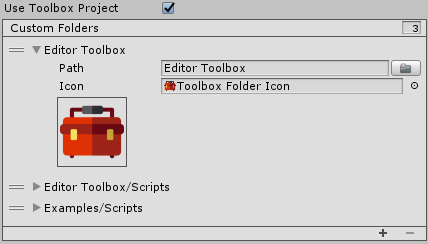
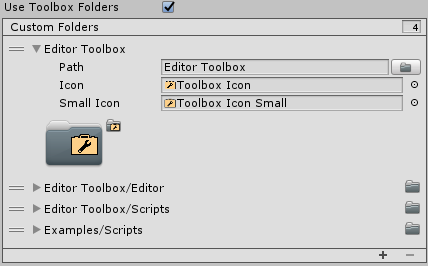
Added FolderData inspector drawer

diff --git a/Assets/Editor Toolbox/Editor/Drawers/FolderDataDrawer.cs b/Assets/Editor Toolbox/Editor/Drawers/FolderDataDrawer.cs
@@ -1,0 +1,90 @@
+using UnityEditor;
+using UnityEngine;
+
+namespace Toolbox.Editor.Drawers
+{
+    [CustomPropertyDrawer(typeof(FolderData))]
+    public class FolderDataDrawer : PropertyDrawer
+    {
+        public override float GetPropertyHeight(SerializedProperty property, GUIContent label)
+        {
+            return EditorGUI.GetPropertyHeight(property, label) + (property.isExpanded ? Style.iconHeight : 0.0f);
+        }
+
+        public override void OnGUI(Rect position, SerializedProperty property, GUIContent label)
+        {
+            //draw property field in native way 
+            EditorGUI.PropertyField(position, property, label, property.isExpanded);
+
+            if (!property.isExpanded)
+            {
+                //adjust position for small icon and draw it in label field
+                var smallIconRect = new Rect(position.xMax - Style.smallIconWidth, position.yMin - Style.spacing, Style.smallIconWidth, Style.smallIconHeight);
+
+                GUI.DrawTexture(smallIconRect, Style.folderTexture);
+                return;
+            }
+
+            //get icons properties
+            var bigIconProperty = property.FindPropertyRelative("icon");
+            var smallIconProperty = property.FindPropertyRelative("smallIcon");
+
+            //get specific rects for folder icons
+            var bigFolderIconRect = new Rect(position.x, position.yMax - Style.iconHeight, Style.iconWidth, Style.iconHeight);
+            var smallFolderIconRect = new Rect(position.x + Style.iconWidth,
+                bigFolderIconRect.y + Style.smallIconHeight / 2 - Style.spacing, Style.smallIconWidth, Style.smallIconHeight);
+
+            //draw folder icons using desired content
+            GUI.DrawTexture(bigFolderIconRect, Style.folderTexture);
+            GUI.DrawTexture(smallFolderIconRect, Style.folderTexture);
+
+            //handle big icon texture preview if exist
+            if (bigIconProperty.objectReferenceValue)
+            {
+                var previewTexture = bigIconProperty.objectReferenceValue as Texture;
+
+                //adjust big icon rect using predefined style properties
+                bigFolderIconRect.x += bigFolderIconRect.width * ToolboxEditorProject.Style.xToWidthRatio;
+                bigFolderIconRect.y += bigFolderIconRect.height * ToolboxEditorProject.Style.yToHeightRatio;
+                bigFolderIconRect.width = ToolboxEditorProject.Style.iconWidth;
+                bigFolderIconRect.height = ToolboxEditorProject.Style.iconHeight;
+
+                //draw big preview icon
+                GUI.DrawTexture(bigFolderIconRect, previewTexture);
+            }
+
+            //handle small icon texture preview if exist
+            if (smallIconProperty.objectReferenceValue)
+            {
+                var previewTexture = smallIconProperty.objectReferenceValue as Texture;
+
+                //adjust small icon rect using predefined style properties
+                smallFolderIconRect.x += smallFolderIconRect.width * ToolboxEditorProject.Style.xToWidthRatioSmall;
+                smallFolderIconRect.y += smallFolderIconRect.height * ToolboxEditorProject.Style.yToHeightRatioSmall;
+                smallFolderIconRect.width = ToolboxEditorProject.Style.iconWidthSmall;
+                smallFolderIconRect.height = ToolboxEditorProject.Style.iconHeightSmall;
+
+                //draw small preview icon
+                GUI.DrawTexture(smallFolderIconRect, previewTexture);
+            }
+        }
+
+
+        private static class Style
+        {
+            internal const float spacing = 2.0f;
+
+            internal const float iconWidth = ToolboxEditorProject.Style.folderIconWidth;
+            internal const float iconHeight = ToolboxEditorProject.Style.folderIconHeight;
+            internal const float smallIconWidth = ToolboxEditorProject.Style.folderIconWidthSmall;
+            internal const float smallIconHeight = ToolboxEditorProject.Style.folderIconHeightSmall;
+
+            internal static readonly Texture2D folderTexture;
+
+            static Style()
+            {
+                folderTexture = EditorGUIUtility.FindTexture("Folder Icon");
+            }
+        }
+    }
+}

diff --git a/Assets/Editor Toolbox/Editor/ToolboxEditorProject.cs b/Assets/Editor Toolbox/Editor/ToolboxEditorProject.cs
@@ -33,6 +33,9 @@ namespace Toolbox.Editor
             {
                 if (data.SmallIcon == null) return;
 
+                //determinate exact folder icon rect
+                rect = new Rect(rect.xMin, rect.y, Style.folderIconWidthSmall, Style.folderIconHeightSmall);
+
                 rect.x += rect.width * Style.xToWidthRatioSmall;
                 rect.y += rect.height * Style.yToHeightRatioSmall;
                 rect.width = Style.iconWidthSmall;
@@ -44,6 +47,9 @@ namespace Toolbox.Editor
             {
                 if (data.Icon == null) return;
 
+                //determinate exact folder icon rect
+                rect = new Rect(rect.x, rect.yMin, Style.folderIconWidth, Style.folderIconHeight);
+       
                 rect.x += rect.width * Style.xToWidthRatio;
                 rect.y += rect.height * Style.yToHeightRatio;
                 rect.width = Style.iconWidth;
@@ -58,19 +64,27 @@ namespace Toolbox.Editor
         {
             //x ratio will determinate OX position of icon
             internal const float xToWidthRatio = 0.43f;
-            internal const float xToWidthRatioSmall = 0.025f;
+            internal const float xToWidthRatioSmall = 0.25f;
 
             //y ratio will determinate OY position of icon
-            internal const float yToHeightRatio = 0.25f;
-            internal const float yToHeightRatioSmall = 0.4f;
+            internal const float yToHeightRatio = 0.3f;
+            internal const float yToHeightRatioSmall = 0.3f;
 
-            //icon width used to draw texture in proper rect
+            //big icon dimensions
             internal const float iconWidth = 29.0f;
-            internal const float iconWidthSmall = 10.0f;
-
-            //icon height used to draw texture in proper rect
             internal const float iconHeight = 29.0f;
+
+            //small icon dimensions
+            internal const float iconWidthSmall = 10.0f;
             internal const float iconHeightSmall = 10.0f;
+
+            //big folder icon dimensions
+            internal const float folderIconWidth = 64.0f;
+            internal const float folderIconHeight = 64.0f;
+
+            //small folder icon dimensions
+            internal const float folderIconWidthSmall = 16.0f;
+            internal const float folderIconHeightSmall = 16.0f;
         }
     }
 
@@ -80,9 +94,9 @@ namespace Toolbox.Editor
     {
         [SerializeField, Directory, Tooltip("Relative path from Assets directory.")]
         private string path;
-        [SerializeField, AssetPreview(ToolboxEditorProject.Style.iconWidth, ToolboxEditorProject.Style.iconHeight)]
+        [SerializeField]
         private Texture icon;
-        [SerializeField, AssetPreview(ToolboxEditorProject.Style.iconWidthSmall, ToolboxEditorProject.Style.iconHeightSmall)]
+        [SerializeField]
         private Texture smallIcon;
 
 

diff --git a/Assets/Editor Toolbox/Editor/Drawers/AssetPreviewAttributeDrawer.cs b/Assets/Editor Toolbox/Editor/Drawers/AssetPreviewAttributeDrawer.cs
@@ -47,9 +47,9 @@ namespace Toolbox.Editor
             }
             else
             {
-                //setting additional height as opposite label
+                //set additional height as opposite label
                 additionalHeight -= Style.height;
-                //adjusting OY position since we need no label
+                //adjust OY position since we need no label
                 position.y -= Style.height;
             }
 
@@ -59,26 +59,26 @@ namespace Toolbox.Editor
 
                 if (!previewTexture) return;
 
-                //caching indent difference
+                //cache indent difference
                 var indent = position.width - EditorGUI.IndentedRect(position).width;
-                //setting image style
+                //set image style
                 var width = Mathf.Clamp(Attribute.Width, 0, previewTexture.width);
                 var height = Mathf.Clamp(Attribute.Height, 0, previewTexture.height);
 
                 Style.textureStyle.normal.background = previewTexture;
-                //setting additional height as preview + 2x spacing + 2x frame offset
+                //set additional height as preview + 2x spacing + 2x frame offset
                 additionalHeight += height + Style.frameSize * 2 + Style.spacing * 2;
                 position.height = height + Style.frameSize;
                 position.width = width + Style.frameSize + indent;
                 position.y += Style.height + Style.spacing;
-                //drawing frame
+                //draw frame
                 EditorGUI.LabelField(position, GUIContent.none, Style.backgroundStyle);
                 position.height = height;
                 position.width = width + indent;
-                //adjusting image to frame center
+                //adjust image to frame center
                 position.y += Style.frameSize / 2;
                 position.x += Style.frameSize / 2;
-                //drawing preview texture
+                //draw preview texture
                 EditorGUI.LabelField(position, GUIContent.none, Style.textureStyle);
             }
         }

diff --git a/Assets/Editor Toolbox/Scripts/BezierSpline.cs b/Assets/Editor Toolbox/Scripts/BezierSpline.cs
@@ -1,0 +1,9 @@
+using UnityEngine;
+
+namespace Toolbox
+{
+    public class BezierSpline : MonoBehaviour
+    {
+
+    }
+}

diff --git a/Assets/Editor Toolbox/README.md b/Assets/Editor Toolbox/README.md
@@ -314,7 +314,9 @@ Set custom folder icons in **ToolboxEditorSettings**.
 
 > Editor Toolbox/Editor/ToolboxEditorProject.cs
 
-![inspector](https://github.com/arimger/Unity-Editor-Toolbox/blob/develop/Documentation/doc12.png)
+![inspector](https://github.com/arimger/Unity-Editor-Toolbox/blob/develop/Documentation/doc12.png)  
+
+
 ![inspector](https://github.com/arimger/Unity-Editor-Toolbox/blob/develop/Documentation/doc11.png)
 
 ### Toolbar <a name="toolbar"></a>

diff --git a/README.md b/README.md
@@ -314,7 +314,9 @@ Set custom folder icons in **ToolboxEditorSettings**.
 
 > Editor Toolbox/Editor/ToolboxEditorProject.cs
 
-![inspector](https://github.com/arimger/Unity-Editor-Toolbox/blob/develop/Documentation/doc12.png)
+![inspector](https://github.com/arimger/Unity-Editor-Toolbox/blob/develop/Documentation/doc12.png)  
+
+
 ![inspector](https://github.com/arimger/Unity-Editor-Toolbox/blob/develop/Documentation/doc11.png)
 
 ### Toolbar <a name="toolbar"></a>
